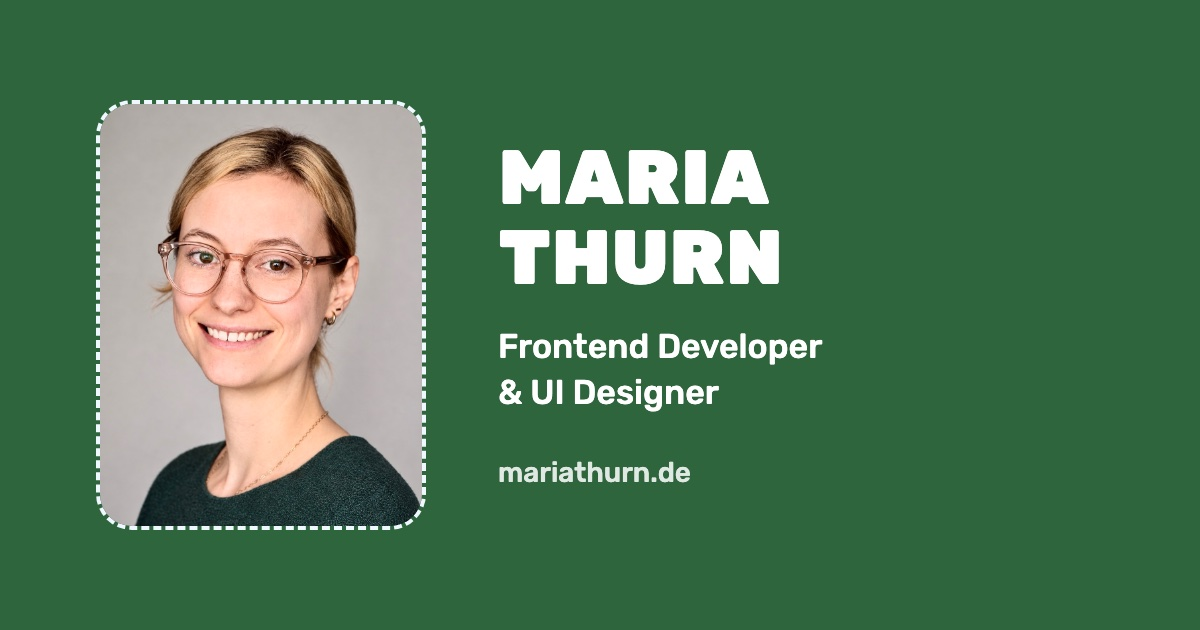
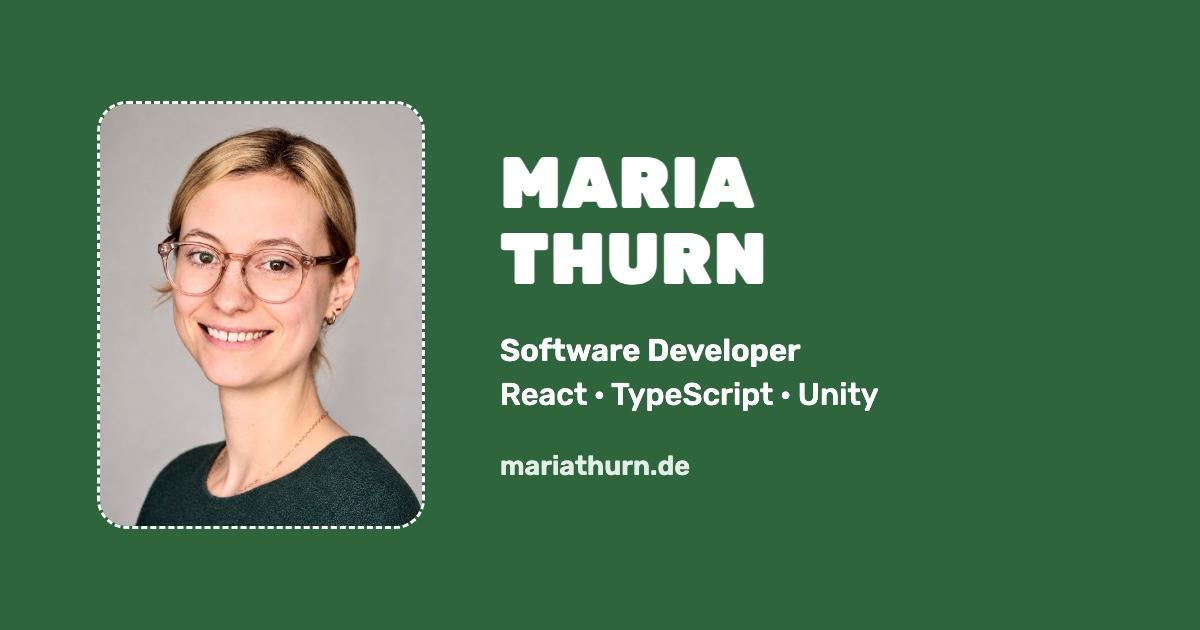
Add Datenschutz page and link in Contact section; update analytics script and Open Graph metadata

diff --git a/public/datenschutz.html b/public/datenschutz.html
@@ -1,0 +1,174 @@
+<!DOCTYPE html>
+<html lang="de">
+
+<head>
+  <meta charset="UTF-8" />
+  <meta name="viewport" content="width=device-width, initial-scale=1.0" />
+  <title>Datenschutz & Kontakt – Maria Thurn</title>
+  <meta name="robots" content="noindex, follow">
+  <link rel="icon" href="/favicon.ico" sizes="48x48" />
+  <link rel="icon" type="image/svg+xml" href="/favicon.svg" />
+
+  <!-- Same saved theme as the main page (see ThemeLever.tsx) -->
+  <script>
+    try {
+      if (localStorage.getItem('theme') === 'dark') document.documentElement.dataset.theme = 'dark';
+    } catch (e) { }
+  </script>
+
+  <style>
+    :root {
+      --color-bg: #fff;
+      --color-text: #1f2328;
+      --color-text-muted: #57606a;
+      --color-accent: #2E653D;
+    }
+
+    :root[data-theme="dark"] {
+      color-scheme: dark;
+      --color-bg: #1d1830;
+      --color-text: #ebe6f3;
+      --color-text-muted: #a9a2b8;
+      --color-accent: #8fc79f;
+    }
+
+    * {
+      margin: 0;
+      padding: 0;
+      box-sizing: border-box;
+    }
+
+    body {
+      font-family: system-ui, -apple-system, 'Segoe UI', sans-serif;
+      background: var(--color-bg);
+      color: var(--color-text);
+      line-height: 1.6;
+    }
+
+    main {
+      max-width: 680px;
+      margin: 0 auto;
+      padding: 48px 16px 80px;
+    }
+
+    .back {
+      display: inline-block;
+      margin-bottom: 32px;
+      color: var(--color-accent);
+      font-weight: 600;
+      text-decoration: none;
+    }
+
+    .back:hover {
+      text-decoration: underline;
+    }
+
+    h1 {
+      font-size: 2rem;
+      line-height: 1.2;
+      margin-bottom: 8px;
+    }
+
+    h1 {
+      margin-bottom: 0;
+    }
+
+    h2 {
+      font-size: 1.35rem;
+      margin: 40px 0 12px;
+    }
+
+    h3 {
+      font-size: 1.05rem;
+      margin: 28px 0 8px;
+    }
+
+    p,
+    ul {
+      margin-bottom: 12px;
+    }
+
+    ul {
+      padding-left: 20px;
+    }
+
+    a {
+      color: var(--color-accent);
+    }
+
+    .muted {
+      color: var(--color-text-muted);
+      font-size: 0.9rem;
+    }
+  </style>
+</head>
+
+<body>
+  <main>
+    <a class="back" href="/">← Zurück zu mariathurn.de</a>
+
+    <h1>Datenschutz & Kontakt</h1>
+
+    <h2>Kontakt</h2>
+    <p>
+      Maria Thurn<br>
+      Kopenhagen, Dänemark<br>
+      E-Mail: <a href="mailto:mail@mariathurn.de">mail@mariathurn.de</a>
+    </p>
+    <p class="muted">
+      Dies ist eine private, nicht kommerzielle Portfolio-Website. Ich biete hier keine Waren oder
+      Dienstleistungen gegen Entgelt an.
+    </p>
+
+    <h2>Datenschutzerklärung</h2>
+
+    <h3>Verantwortliche</h3>
+    <p>Verantwortlich für die Datenverarbeitung auf dieser Website ist Maria Thurn (Kontakt siehe oben).</p>
+
+    <h3>Hosting und Server-Logfiles</h3>
+    <p>
+      Diese Website wird bei der IONOS SE, Elgendorfer Str. 57, 56410 Montabaur, Deutschland, gehostet. Beim Aufruf der Seite werden technisch notwendige
+      Daten wie IP-Adresse, Datum und Uhrzeit, aufgerufene Seite und Browsertyp in Server-Logfiles
+      gespeichert. Das ist erforderlich, um die Website sicher und stabil bereitzustellen
+      (Art. 6 Abs. 1 lit. f DSGVO).
+    </p>
+
+    <h3>Reichweitenmessung mit Umami</h3>
+    <p>
+      Diese Website nutzt Umami Analytics (Umami Software, Inc.) zur anonymen Reichweitenmessung. Es werden
+      keine Cookies gesetzt und keine personenbezogenen Daten gespeichert; IP-Adressen werden nicht
+      gespeichert. Die Daten werden auf Servern in der EU verarbeitet. Rechtsgrundlage ist mein berechtigtes
+      Interesse an der Analyse der Websitenutzung (Art. 6 Abs. 1 lit. f DSGVO).
+    </p>
+
+    <h3>Google Fonts</h3>
+    <p>
+      Diese Website lädt Schriftarten von Google Fonts (Google Ireland Limited). Dabei wird Ihre IP-Adresse an
+      Google übertragen. Rechtsgrundlage ist mein berechtigtes Interesse an einer einheitlichen Darstellung
+      der Website (Art. 6 Abs. 1 lit. f DSGVO). Weitere Informationen:
+      <a href="https://policies.google.com/privacy" target="_blank" rel="noopener noreferrer">Datenschutzerklärung
+        von Google</a>.
+    </p>
+
+    <h3>Kontakt per E-Mail</h3>
+    <p>
+      Wenn Sie mir eine E-Mail schreiben, verwende ich Ihre Angaben nur, um Ihre Anfrage zu beantworten, und
+      gebe sie nicht weiter (Art. 6 Abs. 1 lit. b bzw. f DSGVO).
+    </p>
+
+    <h3>Externe Links</h3>
+    <p>
+      Links zu LinkedIn, itch.io oder ArtStation führen auf externe Seiten. Erst wenn Sie einen solchen Link
+      anklicken, gelten die Datenschutzbestimmungen des jeweiligen Anbieters.
+    </p>
+
+    <h3>Ihre Rechte</h3>
+    <p>
+      Sie haben das Recht auf Auskunft, Berichtigung, Löschung und Einschränkung der Verarbeitung Ihrer Daten,
+      auf Datenübertragbarkeit sowie auf Widerspruch gegen die Verarbeitung. Außerdem können Sie sich bei
+      einer Datenschutz-Aufsichtsbehörde beschweren.
+    </p>
+  </main>
+</body>
+
+</html>

diff --git a/index.html b/index.html
@@ -19,6 +19,10 @@
     } catch (e) { }
   </script>
 
+  <!-- Umami analytics (cookieless); data-domains keeps local dev visits out of the stats -->
+  <script defer src="https://cloud.umami.is/script.js" data-website-id="7d6ca4e6-3514-4cb8-9a7e-beed51d9e6fa"
+    data-domains="mariathurn.de,www.mariathurn.de"></script>
+
   <link rel="canonical" href="https://mariathurn.de/">
 
   <meta property="og:type" content="website">
@@ -26,10 +30,10 @@
   <meta property="og:title" content="Maria Thurn – Software Developer">
   <meta property="og:description"
     content="Software engineer in Copenhagen with a design background. I build web apps and interactive experiences with React, TypeScript and Unity.">
-  <meta property="og:image" content="https://mariathurn.de/og-image.jpg">
+  <meta property="og:image" content="https://mariathurn.de/og-image.jpg?v=2">
   <meta property="og:image:width" content="1200">
   <meta property="og:image:height" content="630">
-  <meta property="og:image:alt" content="Maria Thurn – Frontend Developer & UI Designer">
+  <meta property="og:image:alt" content="Maria Thurn – Software Developer. React, TypeScript, Unity.">
   <meta name="twitter:card" content="summary_large_image">
 
   <script type="application/ld+json">

diff --git a/src/components/Contact.tsx b/src/components/Contact.tsx
@@ -17,6 +17,9 @@ function Contact() {
                 <p>
                     <a href="https://www.artstation.com/mariathurn" target="_blank" rel="noopener noreferrer">Older artwork on ArtStation</a>
                 </p>
+                <p>
+                    <a href="/datenschutz.html">Datenschutz & Kontakt</a>
+                </p>
             </footer>
         </section>
     );
